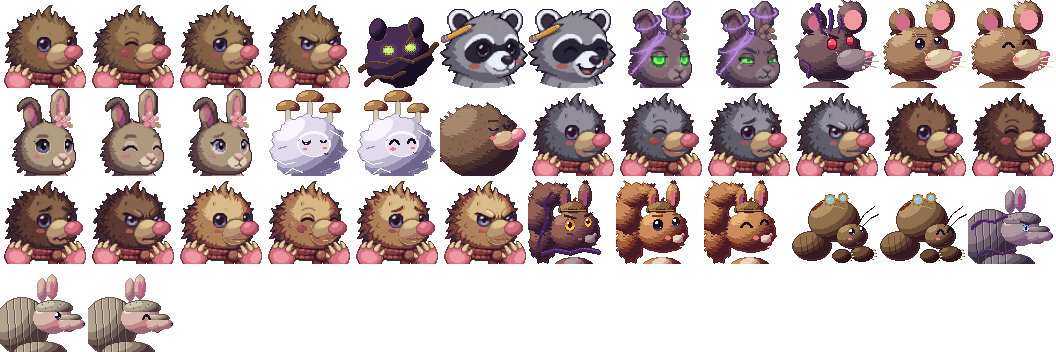
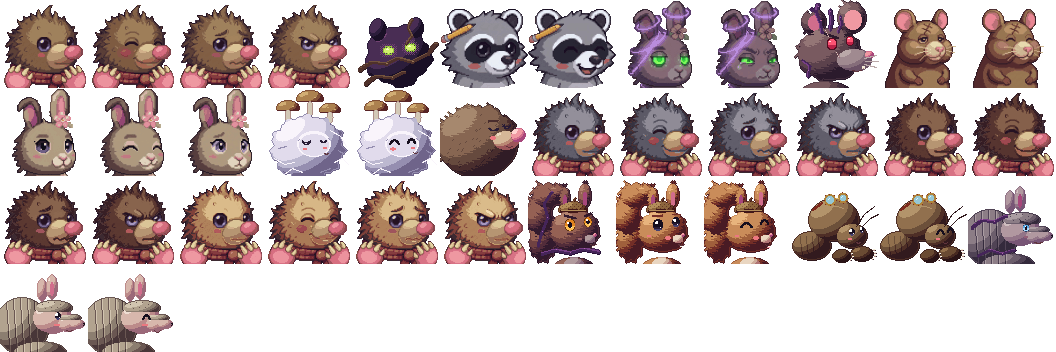
보리 대화 초상화를 나노바나나 그림으로(칸 10~11): 시트가 날씬한 쥐로 나와 통통하게 고쳐 그림(글자·색 견본·앞니 빼고 수염 더함), 원본이 칸을 채워 틀 그대로. 시트 프롬프트에 글자 없음·보리 생김새에 통통함을 적음(0113)
Claude-Session: https://claude.ai/code/session_01VNXEyeHwdhsn4oiHYXtNpM

Changed region(s): [[0.8125, 0.0, 1.0, 0.25]]

diff --git a/tools/art/ai_portraits.py b/tools/art/ai_portraits.py
@@ -31,6 +31,8 @@ CHARACTERS = {
     'momo': (12, ('normal', 'happy', 'worried'), 1.22, 16),
     # 물든 모모: 돌아온 모모 보통 표정을 고쳐 그려 틀이 1px까지 같다 → 같은 틀. 보라 실은 눈 팔레트(보랏빛) 칸을, 초록 눈은 채도 칸을 쓴다.
     'momo_tainted': (7, ('normal', 'pained'), 1.22, 16),
+    # 보리: 원본이 칸을 거의 채워(Naïl처럼) 틀은 그대로. 선도 짙은 자두빛이라 따로 고치지 않는다.
+    'bori': (10, ('normal', 'happy'), None, 16),
 }
 # 크림색 가슴이 원본 아래 끝에 닿는 캐릭터: 배경 지우기를 아래 끝에서 시작하지 않는다(_character_mask).
 CHEST_AT_BOTTOM = {'momo', 'momo_tainted'}

diff --git a/docs/art/nano-banana-prompts.md b/docs/art/nano-banana-prompts.md
@@ -15,7 +15,7 @@
 > **용어**: 이 문서에서 "캐릭터 시트(character sheet)"는 늘 이 0-1 단계의 결과, 곧 그 캐릭터의 앞모습·3/4 모습 그림이다. "초상화(portrait)"는 0-2의 가슴 위 그림이다.
 장면을 그리기 전에 캐릭터마다 새 그림체로 **한 장씩** 먼저 그려 확정한다. 공식 문서는 같은 캐릭터를 여러 장 그릴 때 **앞서 만든 그림을 다음 프롬프트에 넣으라**고 한다. 확정한 시트를 장면의 캐릭터 그림으로 `ref_*.png` 대신(또는 함께) 넣는다. [1차]
 ```
-Create a character reference sheet for a cozy pixel-art game: the character from the attached image, standing, shown from the front and from a three-quarter view side by side on a plain light background, full body, same proportions and colors as the reference. [캐릭터 글]. [공통 스타일]. Aspect ratio 16:9.
+Create a character reference sheet for a cozy pixel-art game: the character from the attached image, standing, shown from the front and from a three-quarter view side by side on a plain light background, full body, same proportions and colors as the reference. [캐릭터 글]. [공통 스타일]. A clean, wordless image with no title, labels or color swatches. Aspect ratio 16:9.
 ```
 마음에 드는 그림체(예: 앞서 받은 초상화 판)가 있으면 Pro에서 **그림체 참고**로 첨부하고 이렇게 적는다: `Use the last attached image only as a style reference for line, palette and pixel density; take each character's design only from its own reference image.`
 
@@ -42,6 +42,7 @@ Edit the last attached image, the portrait of [이름]. Add only [고칠 것], c
 - **걱정 표정이 거절될 때**("저는 언어 모델일 뿐이라서…"): 부드러운 말로 바꾸고 맨 앞에 `Edit this image.`를 붙인다(`gently concerned look`, 또 거절되면 `thoughtful, slightly unsure look`). Naïl·모모 둘 다 이렇게 됐다.
 - **물든 모습은 돌아온 모습 그림을 고쳐 그린다**(틀이 1px까지 같다). 실은 "선만큼 굵게, 볼·이마·귀 둘레로", 눈은 "반딧불 같은 선명한 초록"으로 적는다. 가는 실은 88px에서 사라지고, "glowing green"만 쓰면 흰빛 민트가 나왔다(0112).
 - 표정이 여럿이면 다음 표정도 **보통 표정 하나만** 첨부한다(기쁨 표정을 고치면 감은 눈이 남기 쉽다).
+- **시트에서 몸집이 빠지기 쉽다**(보리가 날씬한 쥐가 됐다): 통통함·머리 크기를 캐릭터 글에 적고, 틀리면 참고 그림 → 시트 순서로 첨부해 고친다. 시트 프롬프트에 글자 없음을 넣지 않으면 제목·색 견본이 들어간다(0113).
 - 첫 시험(Naïl 보통 표정): 시트에는 없던 둥근 귀가 생겼다(두더지는 귀가 털 속에 숨는다 → 캐릭터 글에 `no visible ears` 넣기). 가슴 위로 자르니 상징인 분홍 앞발이 빠졌다 → 초상화 프롬프트에 앞발을 넣는다.
 
 | 캐릭터 | 칸 | 표정(왼쪽이 보통) |
@@ -78,7 +79,7 @@ World rules: The violet threads belong to Halmae, an ancient and lonely fungus g
 |---|---|---|
 | Naïl | `ref_nail.png` | `Naïl: a tiny baby mole with no visible ears (a mole's ears are hidden in its fur), a round, fluffy brown body, a big pink snout, large pink front paws with cream claws, small shiny dark eyes with a white highlight, and a knitted red-orange scarf tied at the front. Match the attached reference of Naïl.` |
 | 엄마 | `ref_mom.png` | `Naïl's mother: the same kind of mole but larger, with slightly darker brown fur, no scarf, and gentle closed eyes. Match the attached reference of the mother mole.` |
-| 보리 | `ref_bori.png` | `Bori: an old field-mouse elder with reddish-brown fur, big round ears with pink insides, a small scar on his forehead, a pink snout and a long pink tail; sturdy, tired and kind. Match the attached reference of Bori.` |
+| 보리 | `ref_bori.png` | `Bori: a plump, round old field-mouse elder with a big wide head and reddish-brown fur, big round ears with pink insides, a small scar on his forehead, a pink snout and a long pink tail; sturdy, tired and kind. Match the attached reference of Bori.` |
 | 모모(돌아옴) | `ref_momo_freed.png` | `Momo: a young European wild rabbit (a burrow rabbit with medium-length ears; one ear tip folds over), warm grey-brown fur, a cream chest and muzzle, big glossy dark eyes with small lashes, and a pink flower at the base of one ear. Match the attached reference of Momo.` |
 | 모모(물듦) | `ref_momo_tainted.png` | `Momo while bound: the same rabbit with dusky plum-grey fur and glowing green eyes, violet threads coiled around her body. Match the attached reference.` |
 | 누룩 할매 | `ref_halmae.png` | `Halmae: an enormous, ancient fungus grandmother, a soft white cotton-like mycelium mound crowned with a cluster of tan mushroom caps, with a kind old face: closed eyes, rosy cheeks and a small smile. Her threads spread out in every direction, white with violet mixed in. Match the attached reference of Halmae.` |

diff --git a/docs/phase-1-combat-prototype.md b/docs/phase-1-combat-prototype.md
@@ -124,7 +124,7 @@
 | 잠긴 문(0094·0096~0099) | `render.rs`(draw_root_gate·빛 패스), `sunny.rs`(FENCE_H·FENCE_V), `room.rs`(door_anim·tick_doors), `world.rs`(열릴 때 실 풀림) | 팩 나무 울타리 두 겹(가운데 칸만: 남북 39,2 · 동서 40,3, 가로대가 벽에서 벽까지, 팩이 없으면 물든 뿌리) + 가로대를 감는 보라 실, 0.35초에 솟아 닫히고 0.5초에 가라앉으며 실이 풀린다, 어둠 속에서도 실이 빛남 |
 | 어둠 지도·야광버섯·그림자(0095·0100) | `render.rs`(dark_rt·cut_material·light_sources·draw_cast_shadows·draw_mushrooms), `art.rs`(light), `biome.rs` | 빛 자리마다 어둠을 빼는 렌더 타깃, 버섯 빛 64px·세기 0.28(은은하게 넓게), 심층 버섯 14%·뿌리 지대 4%, 빛 반대쪽으로 눕는 그림자 |
 | 해·모닥불 그림자(0102~0106, 시험) | `render.rs`(draw_sun_shadows·shadow_dir·sun_shear·silhouette_material, draw_sorted의 sun), `sunny.rs`(stamp_sun_shadow), `terrain.rs`(Baker::fires), `tuning.rs`(SUN_SHADOW_*·FIRE_SHADOW_*·DECOR_LIFT_*) | 서 있는 것의 모양을 발 줄 축으로 눕혀 렌더 타깃에 모아 한 번에 얹는다. 밝은 곳은 해(오른쪽 아래), 모닥불 곁은 불 바깥쪽(150px, 멀수록 길게, 불이 아래면 더 길게 0104, 어두운 곳은 바깥으로 옅게). 모닥불 돌은 돌만 키운 모양(뒤쪽은 짧게, 0105). 그림자 패스는 몸만(빛·표시·반투명·바닥 것 제외, 밝은 곳은 타원 그림자 끔, 0106). 구운 꽃·조약돌·풀포기는 높이 비율만큼 짧게 |
-| Naïl·포포·모모(돌아옴·물듦) 초상화 나노바나나(0107~0112) | `tools/art/sources/ai/nail_*.png`, `tools/art/ai_portraits.py`, `tools/art/portraits.py`(sheet), `docs/art/nano-banana-prompts.md` | 표정 넷 원본 → 로고 지우기·결의 눈 색·배경 투명·88×88·한 팔레트(눈 8색 따로)·털빛 셋(주둥이·발톱은 자리로 지킴). 포포: 틀 맞추기(높이 92%)·채도 높은 색 따로. 모모: 검은 선 → 자두빛, 틀 1.22(귀 끝을 칸 맨 위에, 가슴을 칸 아래로), 가슴이 지워지지 않게 아래 끝 번지기 끔. 물든 모모: 같은 틀, 실은 굵게·위로, 눈은 선명한 초록으로 고쳐 그림. 다른 캐릭터는 다음 차례 |
+| Naïl·포포·모모(돌아옴·물듦)·보리 초상화 나노바나나(0107~0113) | `tools/art/sources/ai/nail_*.png`, `tools/art/ai_portraits.py`, `tools/art/portraits.py`(sheet), `docs/art/nano-banana-prompts.md` | 표정 넷 원본 → 로고 지우기·결의 눈 색·배경 투명·88×88·한 팔레트(눈 8색 따로)·털빛 셋(주둥이·발톱은 자리로 지킴). 포포: 틀 맞추기(높이 92%)·채도 높은 색 따로. 모모: 검은 선 → 자두빛, 틀 1.22(귀 끝을 칸 맨 위에, 가슴을 칸 아래로), 가슴이 지워지지 않게 아래 끝 번지기 끔. 물든 모모: 같은 틀, 실은 굵게·위로, 눈은 선명한 초록으로 고쳐 그림, 흰빛은 보랏빛으로 물들임. 보리: 시트를 통통하게 고쳐 그림, 틀 그대로. 다른 캐릭터는 다음 차례 |
 | 웨이브 | `world.rs`, `scenario.rs` | 지금은 개발 시나리오(아레나·웨이브 3부터)에서만. 적을 다 잡으면 1.2초 뒤 다음 웨이브(1C+1S → 2C+1S → 2C+2S → 3C+2S). 명세엔 없지만 5분 플레이 판정을 위해 넣음 |
 
 확인한 것: 데스크톱(Xvfb) 실행 캡처로 렌더 방향·공격 반원·굴파기·히트박스 표시, 헤드리스 Chromium으로 웹 빌드 로드·입력·콘솔(mismatch 없음). 확인 못 한 것: 실제 손맛(판정 1~4), 실기 게임패드, 소리의 실제 느낌(컨테이너에 오디오 장치 없음).

diff --git a/assets/LICENSES.md b/assets/LICENSES.md
@@ -8,7 +8,7 @@
 | `fonts/OFL-ArkPixel.txt` | Ark Pixel 레포 `LICENSE-OFL` | — | Ark Pixel의 OFL 원문. 일본어·간체 폰트와 함께 배포 |
 | `art/nail.png` | 직접 그림. 원본 `tools/art/nail.py` | © 2026 Beardworks | Naïl 스프라이트 v2(idle·walk·attack·hurt·dead·흙더미·그림자 + 흰 실루엣) |
 | `art/nail_fur1~3.png` | 직접 그림. 원본 `tools/art/nail.py`(털 색만 바꿈) | © 2026 Beardworks | 털빛 잿빛·밤빛·모래빛(저널 보상, docs/decisions/0048) |
-| `art/portraits.png` | 직접 그림. 원본 `tools/art/portraits.py`. **Naïl 칸 0~3·18~29, 포포 칸 5~6, 물든 모모 칸 7~8, 돌아온 모모 칸 12~14**는 나노바나나(Google Gemini 이미지 모델)로 사장이 그린 원본 `tools/art/sources/ai/*.png`를 `tools/art/ai_portraits.py`가 칸으로 만든 것(2026-10-26, docs/decisions/0108·0109·0110·0112). 참고 그림은 직접 그린 초상화만 넣었다(팩 그림 없음, 0064). 모든 생성 그림에 SynthID 워터마크가 들어 있다 | © 2026 Beardworks | 대화창 초상화 88×88, 한 줄 12칸(Naïl 털빛 3 × 표정 4 포함, Naïl 표정 4 + 이웃 그림자 + 라쿤 포포 2 + 물든 모모 2 + 들쥐 대장·보리 3 + 돌아온 모모 3 + 누룩 할매 2 + 엄마 두더지 1 + 도토 3 + 수수 2 + 콩이 3) |
+| `art/portraits.png` | 직접 그림. 원본 `tools/art/portraits.py`. **Naïl 칸 0~3·18~29, 포포 칸 5~6, 물든 모모 칸 7~8, 보리 칸 10~11, 돌아온 모모 칸 12~14**는 나노바나나(Google Gemini 이미지 모델)로 사장이 그린 원본 `tools/art/sources/ai/*.png`를 `tools/art/ai_portraits.py`가 칸으로 만든 것(2026-10-26, docs/decisions/0108·0109·0110·0112·0113). 참고 그림은 직접 그린 초상화만 넣었다(팩 그림 없음, 0064). 모든 생성 그림에 SynthID 워터마크가 들어 있다 | © 2026 Beardworks | 대화창 초상화 88×88, 한 줄 12칸(Naïl 털빛 3 × 표정 4 포함, Naïl 표정 4 + 이웃 그림자 + 라쿤 포포 2 + 물든 모모 2 + 들쥐 대장·보리 3 + 돌아온 모모 3 + 누룩 할매 2 + 엄마 두더지 1 + 도토 3 + 수수 2 + 콩이 3) |
 | `art/critters.png` | 직접 그림. 원본 `tools/art/critters.py` | © 2026 Beardworks | 적(물든 들쥐·생쥐·시궁쥐·다람쥐·청설모)·허수아비·라쿤 포포·물든 모모·돌아온 모모·도토·돌아온 도토·수수·콩이·돌아온 콩이 16×16 + 흰 실루엣. v2 손으로 찍은 자세 |
 | `art/chief.png` | 직접 그림. 원본 `tools/art/chief.py` | © 2026 Beardworks | 튜토리얼 보스 들쥐 대장(물든 모습 8칸)·돌아온 보리(5칸) 32×32 + 흰 실루엣 |
 | `art/illust/*.png`(타이틀 바탕 `title.png`·`title_fog.png` 포함, 0083 — 타이틀은 바탕 그림 없이 코드로만) | 직접 그림(임시). 원본 `tools/art/illust.py` | © 2026 Beardworks(molehill·great_tree·last_bloom·mother_burrow·bori_freed·momo_bloom 바탕은 아래 그림들, CC0·퍼블릭 도메인) | 컷씬 일러스트 9장 640×360(2배 밀도, 일부는 패닝용으로 더 큼). 사람이 그린 그림으로 바꾸면 이 행을 작가·계약으로 고친다(docs/art/cutscene-illustrations.md) |

diff --git a/docs/decisions/0113-bori-portraits.md b/docs/decisions/0113-bori-portraits.md
@@ -1,0 +1,16 @@
+# 0113. 보리 대화 초상화(나노바나나)
+
+- 날짜: 2026-10-26
+- 상태: 채택. 0112(물든 모모)에 이은 다섯째 묶음.
+
+## 결정(`tools/art/ai_portraits.py` `bori`, `tools/art/sources/ai/bori_{normal,happy}.png`)
+- 칸 10~11(보통 = 조금 지쳤지만 다정함, 기쁨 = 감은 눈 웃음). 원본 1024×1024.
+- 원본이 칸을 거의 채워(Naïl처럼) 틀은 그대로 둔다. 선이 짙은 자두빛(41,15,28)이라 따로 고치지 않는다. 채도 칸 16(넣든 빼든 거의 같아 다른 캐릭터와 맞췄다).
+
+## 시트에서 고친 것
+- 첫 시트는 머리가 작고 몸이 길쭉한 보통 쥐였다(사장: "너무 날씬해졌네?"). 참고 그림의 보리는 넓고 둥근 머리이고, 대장 시절 보스 그림도 졸개 두 배 크기의 다부진 몸이다(0032). 참고 그림을 먼저, 시트를 마지막에 첨부해 "much plumper and rounder … big, wide, round head almost as wide as his shoulders"로 고쳐 그렸다.
+- 같은 고침에서 뺀 것: 제목 글자·색 견본 띠·깃털 그림(시트 프롬프트에 "wordless"가 없었다), 앞니(참고 그림과 예전 초상화에 없다). 더한 것: 수염.
+
+## 확인
+- 색까지 비교: 커밋된 시트와 다른 칸은 10·11뿐이다. 어두운 바탕 88×88에서 흉터·수염·배 위 앞발이 보인다.
+- 헤드리스 대화는 못 봤다: 보리 대사는 런 중 쉼터 도착(`camp_arrive`)과 튜토리얼 보스 뒤에만 나오고 개발 시나리오로 바로 갈 수 없다. 칸은 다른 캐릭터와 같은 `draw_portrait`로 찍힌다.
